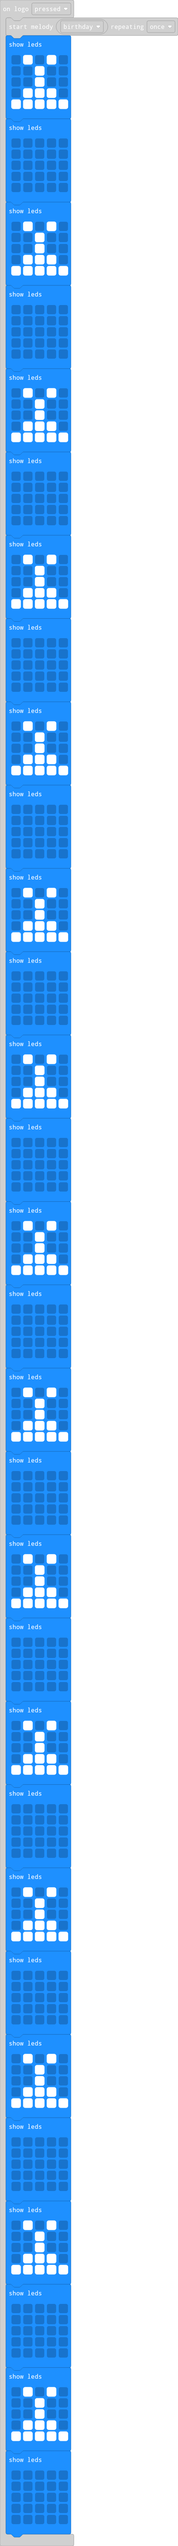
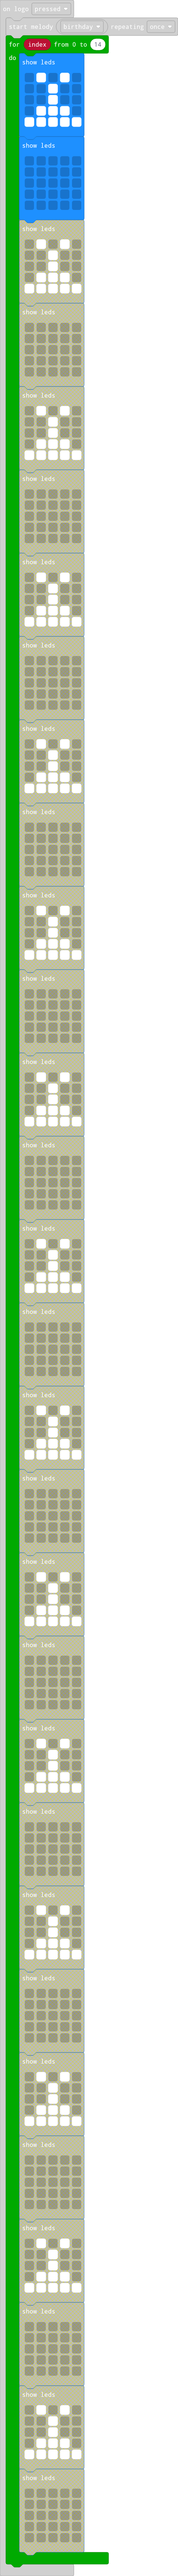
Update main.blocks, main.ts

diff --git a/main.ts b/main.ts
@@ -1,215 +1,21 @@
 input.onLogoEvent(TouchButtonEvent.Pressed, function () {
     music.startMelody(music.builtInMelody(Melodies.Birthday), MelodyOptions.Once)
-    basic.showLeds(`
-        . # . # .
-        . . # . .
-        . . # . .
-        . # # # .
-        # # # # #
-        `)
-    basic.showLeds(`
-        . . . . .
-        . . . . .
-        . . . . .
-        . . . . .
-        . . . . .
-        `)
-    basic.showLeds(`
-        . # . # .
-        . . # . .
-        . . # . .
-        . # # # .
-        # # # # #
-        `)
-    basic.showLeds(`
-        . . . . .
-        . . . . .
-        . . . . .
-        . . . . .
-        . . . . .
-        `)
-    basic.showLeds(`
-        . # . # .
-        . . # . .
-        . . # . .
-        . # # # .
-        # # # # #
-        `)
-    basic.showLeds(`
-        . . . . .
-        . . . . .
-        . . . . .
-        . . . . .
-        . . . . .
-        `)
-    basic.showLeds(`
-        . # . # .
-        . . # . .
-        . . # . .
-        . # # # .
-        # # # # #
-        `)
-    basic.showLeds(`
-        . . . . .
-        . . . . .
-        . . . . .
-        . . . . .
-        . . . . .
-        `)
-    basic.showLeds(`
-        . # . # .
-        . . # . .
-        . . # . .
-        . # # # .
-        # # # # #
-        `)
-    basic.showLeds(`
-        . . . . .
-        . . . . .
-        . . . . .
-        . . . . .
-        . . . . .
-        `)
-    basic.showLeds(`
-        . # . # .
-        . . # . .
-        . . # . .
-        . # # # .
-        # # # # #
-        `)
-    basic.showLeds(`
-        . . . . .
-        . . . . .
-        . . . . .
-        . . . . .
-        . . . . .
-        `)
-    basic.showLeds(`
-        . # . # .
-        . . # . .
-        . . # . .
-        . # # # .
-        # # # # #
-        `)
-    basic.showLeds(`
-        . . . . .
-        . . . . .
-        . . . . .
-        . . . . .
-        . . . . .
-        `)
-    basic.showLeds(`
-        . # . # .
-        . . # . .
-        . . # . .
-        . # # # .
-        # # # # #
-        `)
-    basic.showLeds(`
-        . . . . .
-        . . . . .
-        . . . . .
-        . . . . .
-        . . . . .
-        `)
-    basic.showLeds(`
-        . # . # .
-        . . # . .
-        . . # . .
-        . # # # .
-        # # # # #
-        `)
-    basic.showLeds(`
-        . . . . .
-        . . . . .
-        . . . . .
-        . . . . .
-        . . . . .
-        `)
-    basic.showLeds(`
-        . # . # .
-        . . # . .
-        . . # . .
-        . # # # .
-        # # # # #
-        `)
-    basic.showLeds(`
-        . . . . .
-        . . . . .
-        . . . . .
-        . . . . .
-        . . . . .
-        `)
-    basic.showLeds(`
-        . # . # .
-        . . # . .
-        . . # . .
-        . # # # .
-        # # # # #
-        `)
-    basic.showLeds(`
-        . . . . .
-        . . . . .
-        . . . . .
-        . . . . .
-        . . . . .
-        `)
-    basic.showLeds(`
-        . # . # .
-        . . # . .
-        . . # . .
-        . # # # .
-        # # # # #
-        `)
-    basic.showLeds(`
-        . . . . .
-        . . . . .
-        . . . . .
-        . . . . .
-        . . . . .
-        `)
-    basic.showLeds(`
-        . # . # .
-        . . # . .
-        . . # . .
-        . # # # .
-        # # # # #
-        `)
-    basic.showLeds(`
-        . . . . .
-        . . . . .
-        . . . . .
-        . . . . .
-        . . . . .
-        `)
-    basic.showLeds(`
-        . # . # .
-        . . # . .
-        . . # . .
-        . # # # .
-        # # # # #
-        `)
-    basic.showLeds(`
-        . . . . .
-        . . . . .
-        . . . . .
-        . . . . .
-        . . . . .
-        `)
-    basic.showLeds(`
-        . # . # .
-        . . # . .
-        . . # . .
-        . # # # .
-        # # # # #
-        `)
-    basic.showLeds(`
-        . . . . .
-        . . . . .
-        . . . . .
-        . . . . .
-        . . . . .
-        `)
+    for (let index = 0; index <= 14; index++) {
+        basic.showLeds(`
+            . # . # .
+            . . # . .
+            . . # . .
+            . # # # .
+            # # # # #
+            `)
+        basic.showLeds(`
+            . . . . .
+            . . . . .
+            . . . . .
+            . . . . .
+            . . . . .
+            `)
+    }
 })
 basic.forever(function () {
 	
